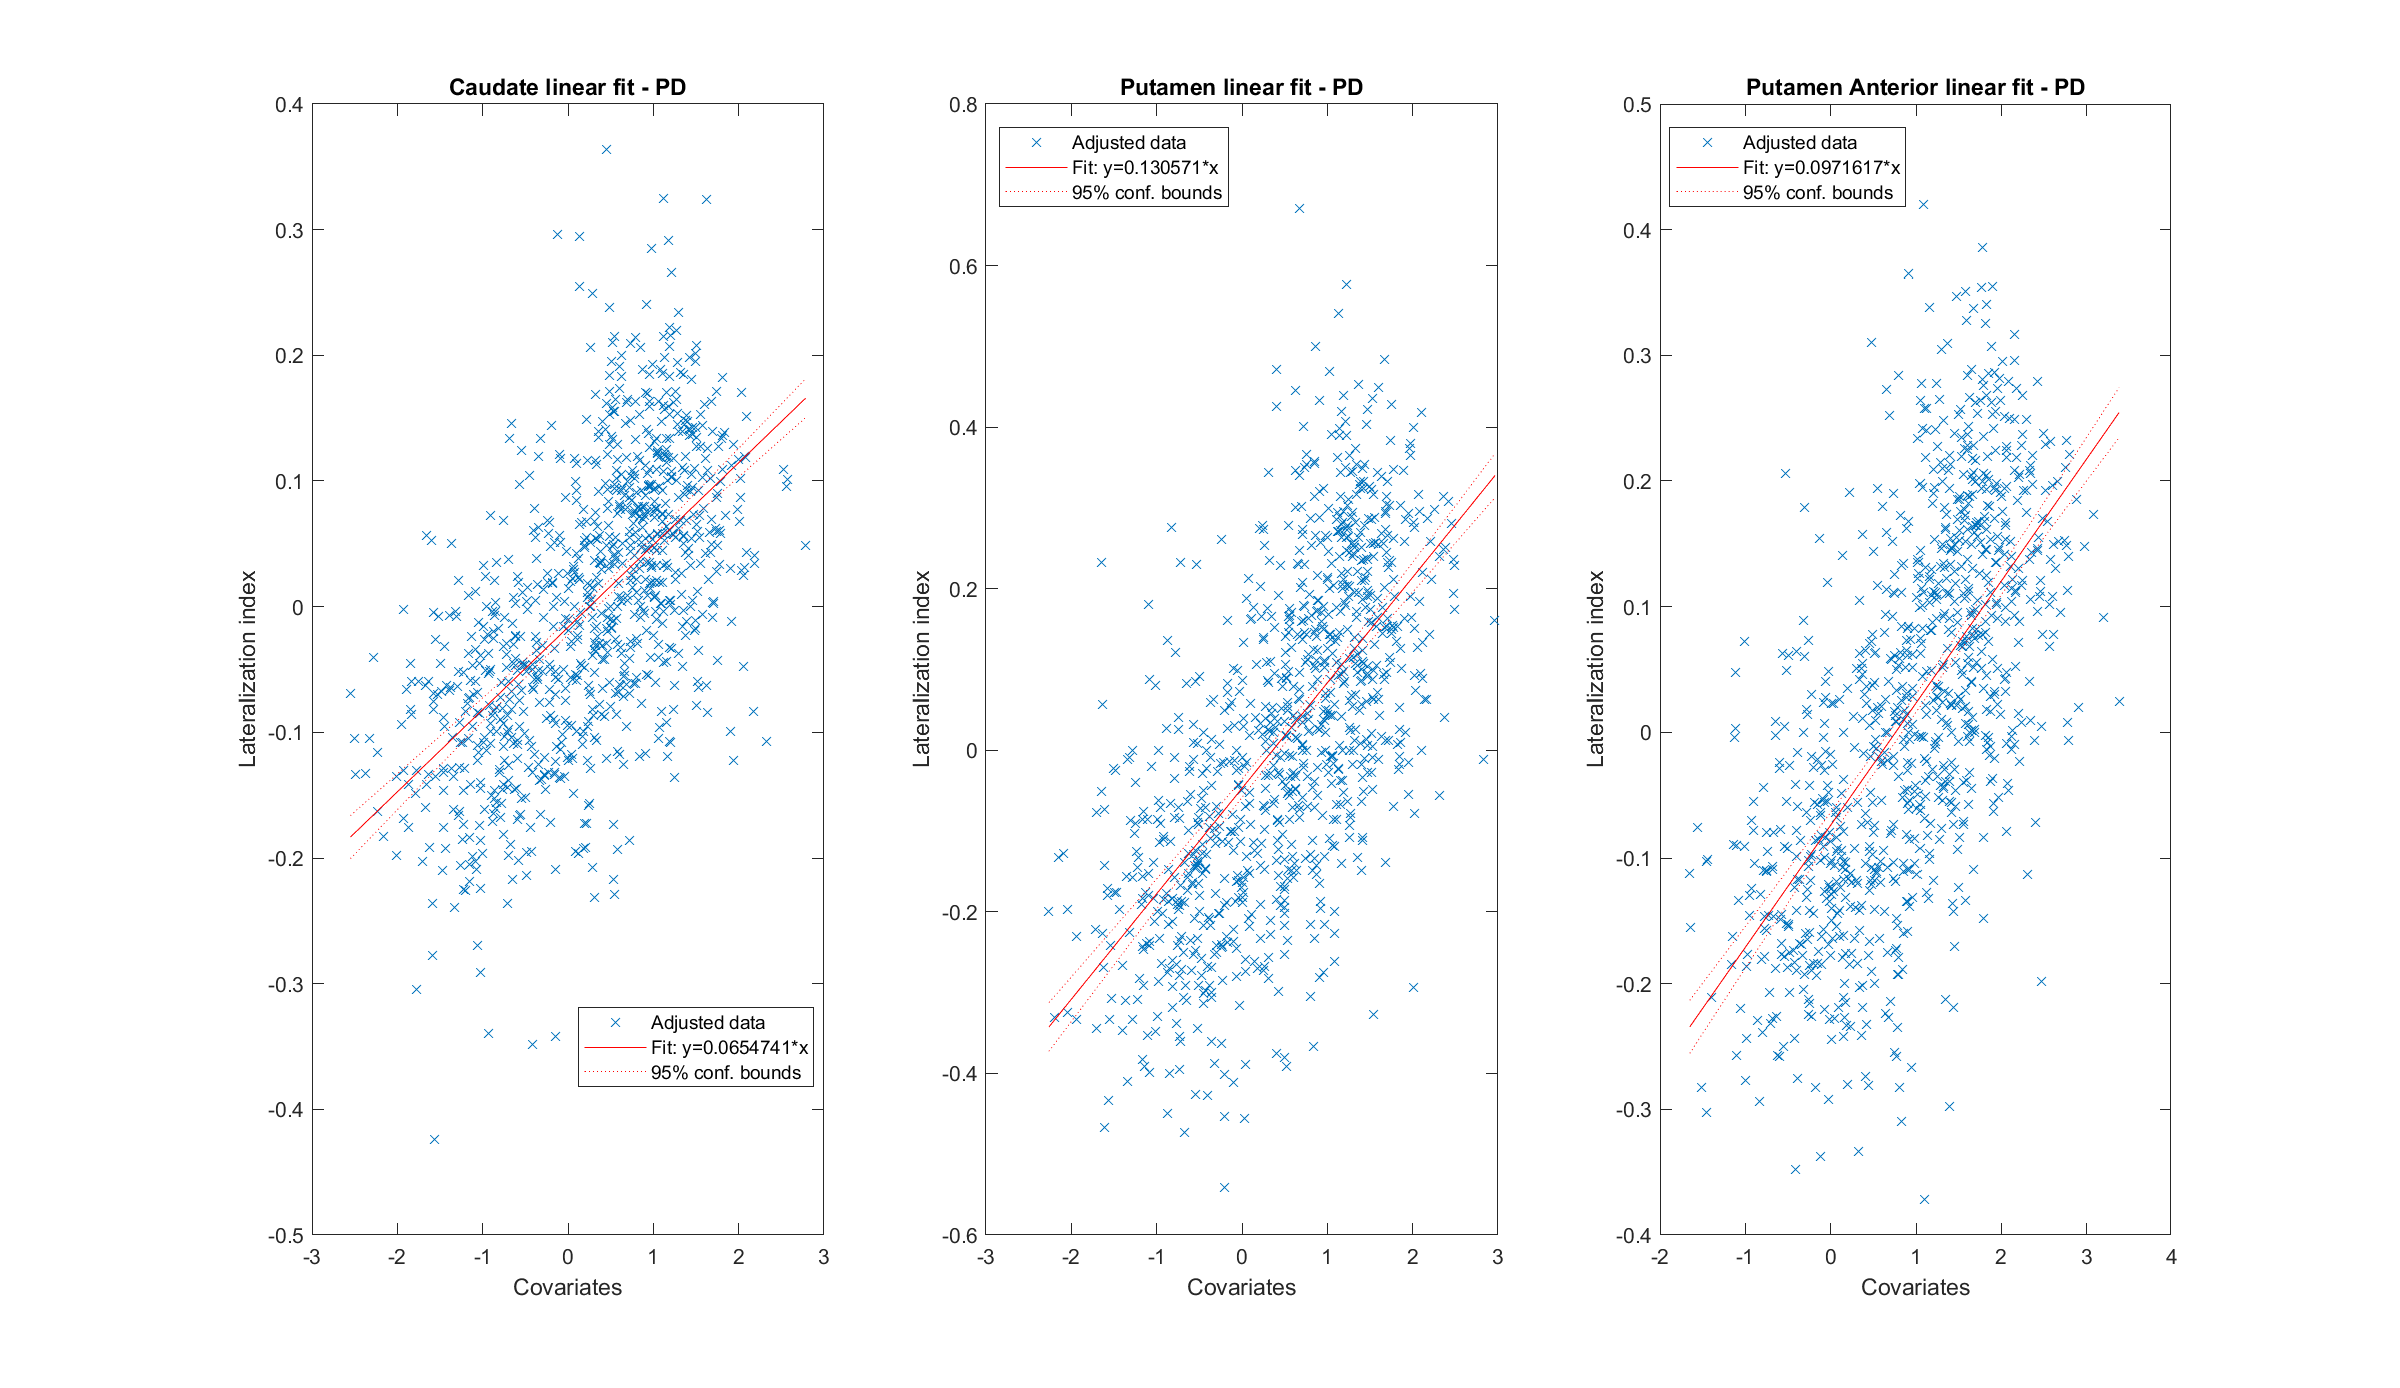
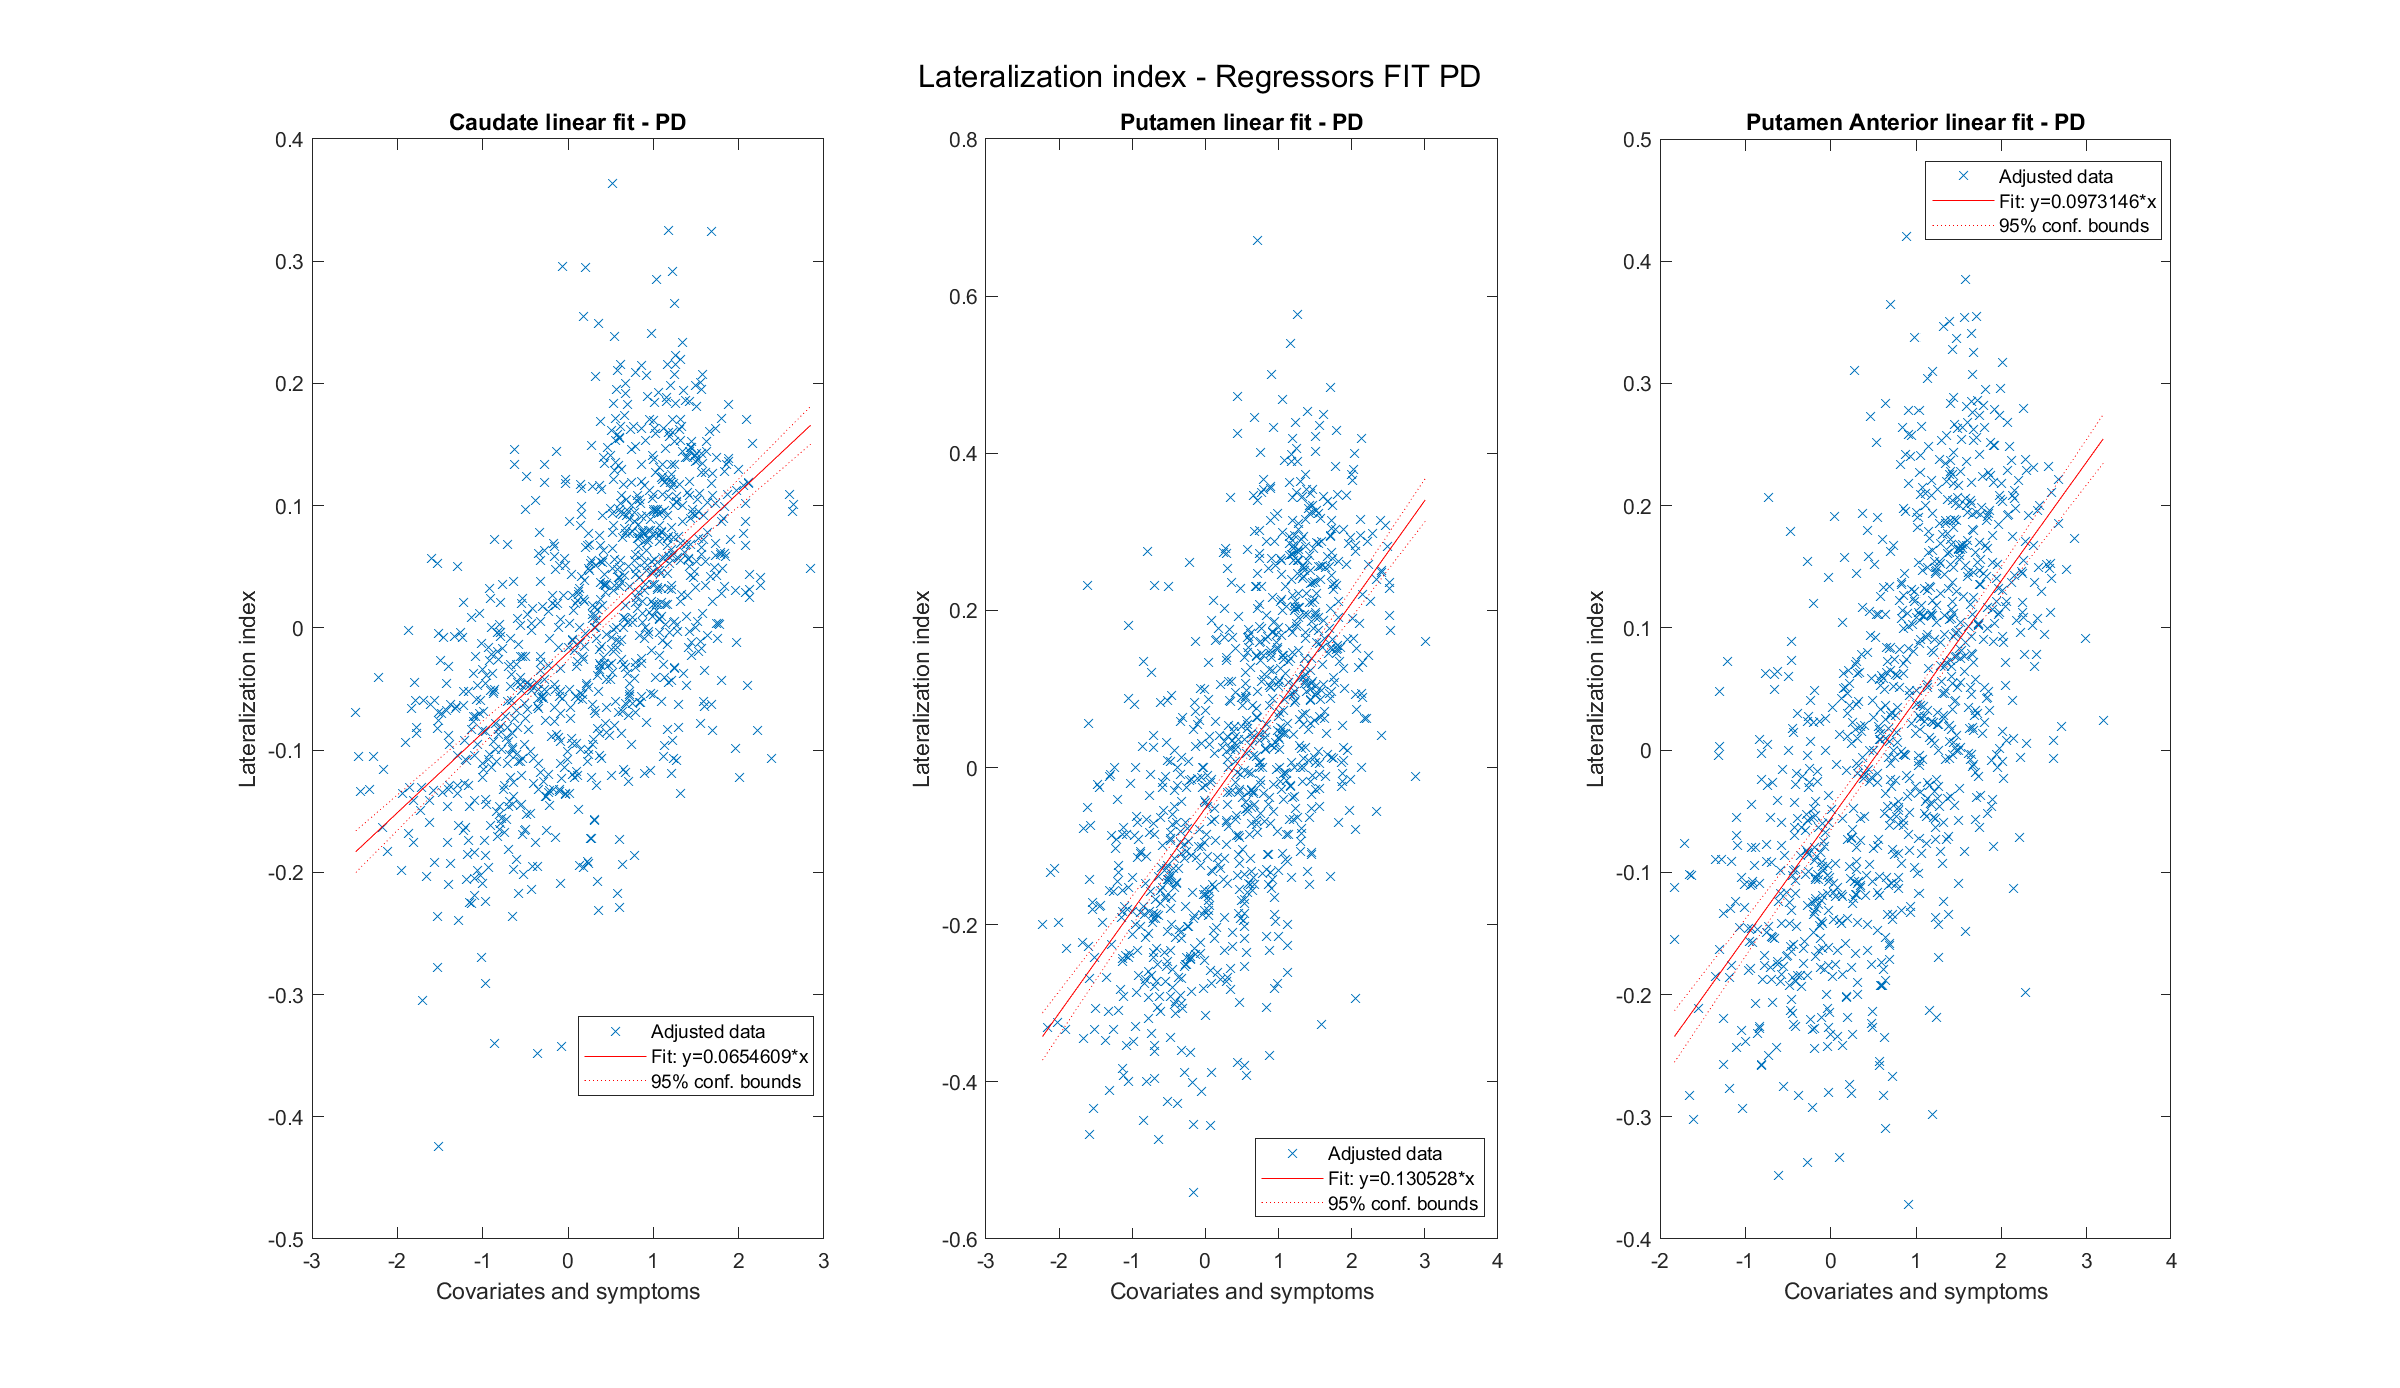
male - female fit

diff --git a/hm_biomarkers_new_version.m b/hm_biomarkers_new_version.m
@@ -566,8 +566,8 @@ end
 %% CORRELATION MATRIX of variables of interest
 % fare scatter
 %%   - HC - indirect data
-idx_covariates = [4, 153, 154, 158]; 
-covariates_hc = data_hc(:, idx_covariates); % age, height, weight, mcatot
+idx_covariates = [4, 153, 154]; 
+covariates_hc = data_hc(:, idx_covariates); % age, height, weight
 covariates_hc.('Caudate lat coeff') = LATERALIZATION_coeff.CAUDATE.HC;
 covariates_hc.('Putamen lat coeff') = LATERALIZATION_coeff.PUTAMEN.HC;
 covariates_hc.('Putamen ant lat coeff') = LATERALIZATION_coeff.PUTAMEN_ANT.HC;
@@ -602,7 +602,7 @@ end
 covariates_to_save_hc = unique(covariates_to_save_hc);
 
 %%   - HC - symptoms data
-idx_symptoms = [34, 55, 94, 27:54, 61:93]; 
+idx_symptoms = [34, 55, 94, 27:54, 61:93,158]; 
 symptoms_hc = data_hc(:, idx_symptoms); % age, height, weight, mcatot
 symptoms_hc.('Caudate lat coeff') = LATERALIZATION_coeff.CAUDATE.HC;
 symptoms_hc.('Putamen lat coeff') = LATERALIZATION_coeff.PUTAMEN.HC;
@@ -724,7 +724,7 @@ model_caud_hc = fitlm(regressors_hc_array,NOT_ABS.LATERALIZATION_coeff.CAUDATE.H
 plot(model_caud_hc)
 % xlim([-0.05 0.05])
 % ylim([-0.3 0.2])
-xlabel('Covariates')
+xlabel('Covariates and symptoms')
 ylabel('Lateralization index')
 title('Caudate linear fit - HC')
 
@@ -733,7 +733,7 @@ model_put_hc = fitlm(regressors_hc_array,NOT_ABS.LATERALIZATION_coeff.PUTAMEN.HC
 plot(model_put_hc)
 % xlim([-0.05 0.05])
 % ylim([-0.3 0.2])
-xlabel('Covariates')
+xlabel('Covariates and symptoms')
 ylabel('Lateralization index')
 title('Putamen linear fit - HC')
 
@@ -742,9 +742,11 @@ model_put_ant_hc = fitlm(regressors_hc_array,NOT_ABS.LATERALIZATION_coeff.PUTAME
 plot(model_put_ant_hc)
 % xlim([-0.05 0.05])
 % ylim([-0.3 0.2])
-xlabel('Covariates')
+xlabel('Covariates and symptoms')
 ylabel('Lateralization index')
 title('Putamen Anterior linear fit - HC')
+sgtitle('Lateralization index - Regressors FIT HC')
+
 
 saveas(figure(25), "fit_covariates_hc.png", "png")
 
@@ -767,7 +769,7 @@ model_caud_pd = fitlm(regressors_pd_array,NOT_ABS.LATERALIZATION_coeff.CAUDATE.P
 plot(model_caud_pd)
 % xlim([-0.5 0.6])
 % ylim([-0.6 0.8])
-xlabel('Covariates')
+xlabel('Covariates and symptoms')
 ylabel('Lateralization index')
 title('Caudate linear fit - PD')
 
@@ -776,7 +778,7 @@ model_put_pd = fitlm(regressors_pd_array,NOT_ABS.LATERALIZATION_coeff.PUTAMEN.PD
 plot(model_put_pd)
 % xlim([-0.5 0.6])
 % ylim([-0.6 0.8])
-xlabel('Covariates')
+xlabel('Covariates and symptoms')
 ylabel('Lateralization index')
 title('Putamen linear fit - PD')
 
@@ -785,9 +787,11 @@ model_put_ant_pd = fitlm(regressors_pd_array,NOT_ABS.LATERALIZATION_coeff.PUTAME
 plot(model_put_ant_pd)
 % xlim([-0.5 0.6])
 % ylim([-0.6 0.8])
-xlabel('Covariates')
+xlabel('Covariates and symptoms')
 ylabel('Lateralization index')
 title('Putamen Anterior linear fit - PD')
+sgtitle('Lateralization index - Regressors FIT PD')
+
 
 saveas(figure(26), "fit_covariates_pd.png", "png")
 
@@ -795,6 +799,90 @@ saveas(figure(26), "fit_covariates_pd.png", "png")
 anova_caud_pd = anova(model_caud_pd,'summary');
 anova_put_pd = anova(model_put_pd,'summary');
 anova_put_ant_pd = anova(model_put_ant_pd,'summary');
+
+
+%% SEPARATIONS Male - Female
+idx_male_population = find(data_pd.SEX== 2);
+idx_female_population = find(data_pd.SEX== 1);
+
+male_lateralization_coeff.CAUDATE = NOT_ABS.LATERALIZATION_coeff.CAUDATE.PD(idx_male_population,:);
+female_lateralization_coeff.CAUDATE = NOT_ABS.LATERALIZATION_coeff.CAUDATE.PD(idx_female_population,:);
+
+male_lateralization_coeff.PUTAMEN = NOT_ABS.LATERALIZATION_coeff.PUTAMEN.PD(idx_male_population,:);
+female_lateralization_coeff.PUTAMEN = NOT_ABS.LATERALIZATION_coeff.PUTAMEN.PD(idx_female_population,:);
+
+male_lateralization_coeff.PUTAMEN_ANT = NOT_ABS.LATERALIZATION_coeff.PUTAMEN_ANT.PD(idx_male_population,:);
+female_lateralization_coeff.PUTAMEN_ANT = NOT_ABS.LATERALIZATION_coeff.PUTAMEN_ANT.PD(idx_female_population,:);
+
+regressors_male_array = regressors_pd_array(idx_male_population,:);
+regressors_female_array = regressors_pd_array(idx_female_population,:);
+
+
+% Male fit
+model_caud_male = fitlm(regressors_male_array,male_lateralization_coeff.CAUDATE);
+model_put_male = fitlm(regressors_male_array,male_lateralization_coeff.PUTAMEN);
+model_put_ant_male = fitlm(regressors_male_array,male_lateralization_coeff.PUTAMEN_ANT);
+
+figure(27)
+set(gcf, 'Position', get(0, 'Screensize'));
+
+subplot(131)
+plot(model_caud_male)
+xlabel('Covariates and symptoms')
+ylabel('Lateralization index')
+t = title('Fit Lateralization CAUDATE - Regressors [Male population]');
+set(t, 'FontSize', 9)
+subplot(132)
+plot(model_put_male)
+xlabel('Covariates and symptoms')
+ylabel('Lateralization index')
+t = title('Fit Lateralization PUTAMEN - Regressors [Male population]');
+set(t, 'FontSize', 9)
+subplot(133)
+plot(model_put_ant_male)
+xlabel('Covariates and symptoms')
+ylabel('Lateralization index')
+t = title('Fit Lateralization PUTAMEN ANTERIOR - Regressors [Male population]');
+set(t, 'FontSize', 9)
+
+sgtitle('Male population FIT')
+saveas(figure(27), "fit_covariates_male.png", "png")
+
+
+% Female fit
+
+model_caud_female = fitlm(regressors_female_array,female_lateralization_coeff.CAUDATE);
+model_put_female = fitlm(regressors_female_array,female_lateralization_coeff.PUTAMEN);
+model_put_ant_female = fitlm(regressors_female_array,female_lateralization_coeff.PUTAMEN_ANT);
+
+figure(28)
+set(gcf, 'Position', get(0, 'Screensize'));
+
+subplot(131)
+plot(model_caud_female)
+xlabel('Covariates and symptoms')
+ylabel('Lateralization index')
+t = title('Fit Lateralization CAUDATE - Regressors [Female population]');
+set(t, 'FontSize', 9)
+subplot(132)
+plot(model_put_female)
+xlabel('Covariates and symptoms')
+ylabel('Lateralization index')
+t = title('Fit Lateralization PUTAMEN - Regressors [Female population]');
+set(t, 'FontSize', 9)
+subplot(133)
+plot(model_put_ant_female)
+xlabel('Covariates and symptoms')
+ylabel('Lateralization index')
+t=title('Fit Lateralization PUTAMEN ANTERIOR - Regressors [Female population]');
+set(t, 'FontSize', 9)
+
+
+sgtitle('Female population FIT')
+
+saveas(figure(28), "fit_covariates_female.png", "png")
+
+
 
 %% SIMPTOMS LATERALITY INDEX
 
@@ -817,7 +905,7 @@ model_sintomi_lat_caud = fitlm(sintomi_lat,NOT_ABS.LATERALIZATION_coeff.CAUDATE.
 model_sintomi_lat_put = fitlm(sintomi_lat,NOT_ABS.LATERALIZATION_coeff.PUTAMEN.PD);
 model_sintomi_lat_put_ant = fitlm(sintomi_lat,NOT_ABS.LATERALIZATION_coeff.PUTAMEN_ANT.PD);
 
-figure(27)
+figure(29)
 set(gcf, 'Position', get(0, 'Screensize'));
 
 subplot(131)
